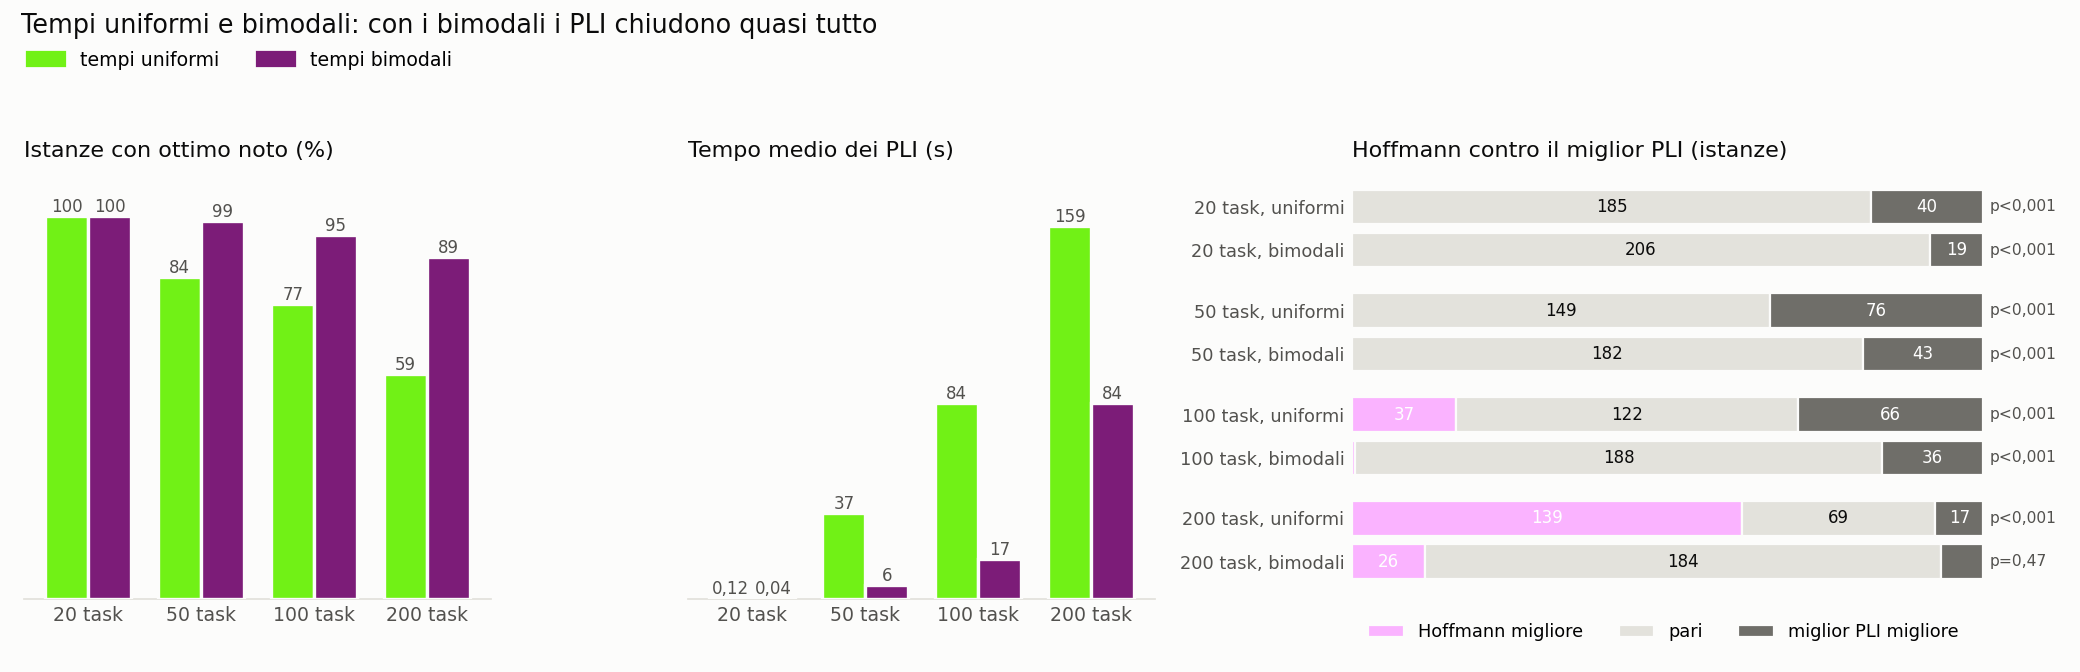
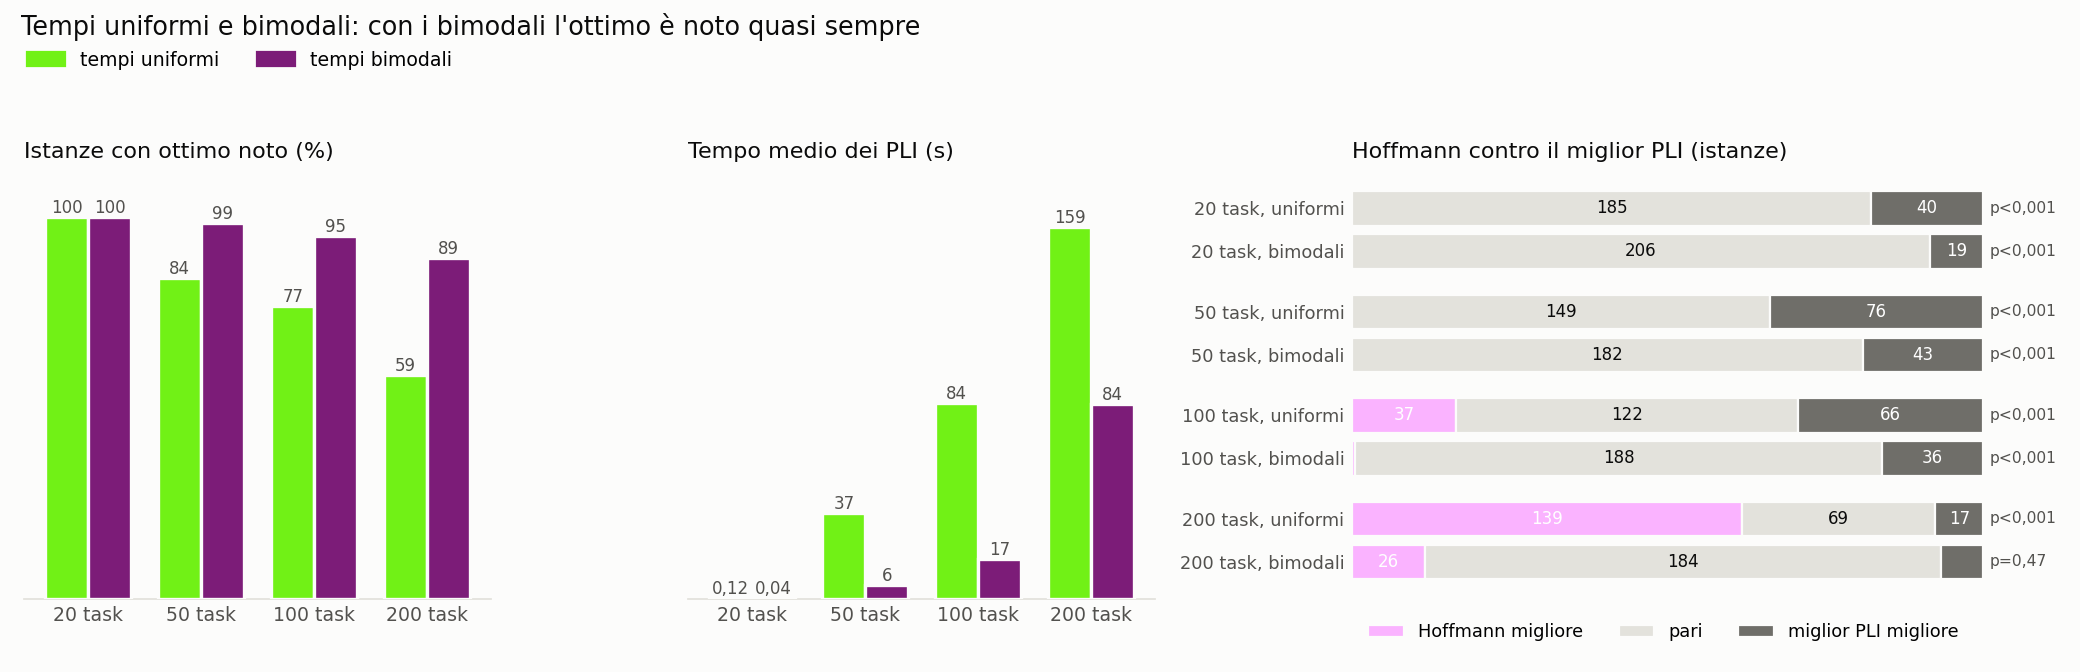
aggiornata etichetta

diff --git a/scripts/make_figures.py b/scripts/make_figures.py
@@ -464,7 +464,7 @@ def plot_distributions(df: pd.DataFrame, path: str | Path) -> None:
     handles = [plt.Rectangle((0, 0), 1, 1, color=DIST_COLORS[d]) for d in dists]
     fig.legend(handles, [f"tempi {DIST_LABELS[d]}" for d in dists], loc="upper left",
                bbox_to_anchor=(0.005, 0.95), ncol=len(dists), frameon=False, fontsize=8.5)
-    fig.suptitle("Tempi uniformi e bimodali: con i bimodali i PLI chiudono quasi tutto",
+    fig.suptitle("Tempi uniformi e bimodali: con i bimodali l'ottimo è noto quasi sempre",                 
                  x=0.01, ha="left", fontsize=11.5, color=INK)
     fig.patch.set_facecolor(SURFACE)
     for a in axes:
